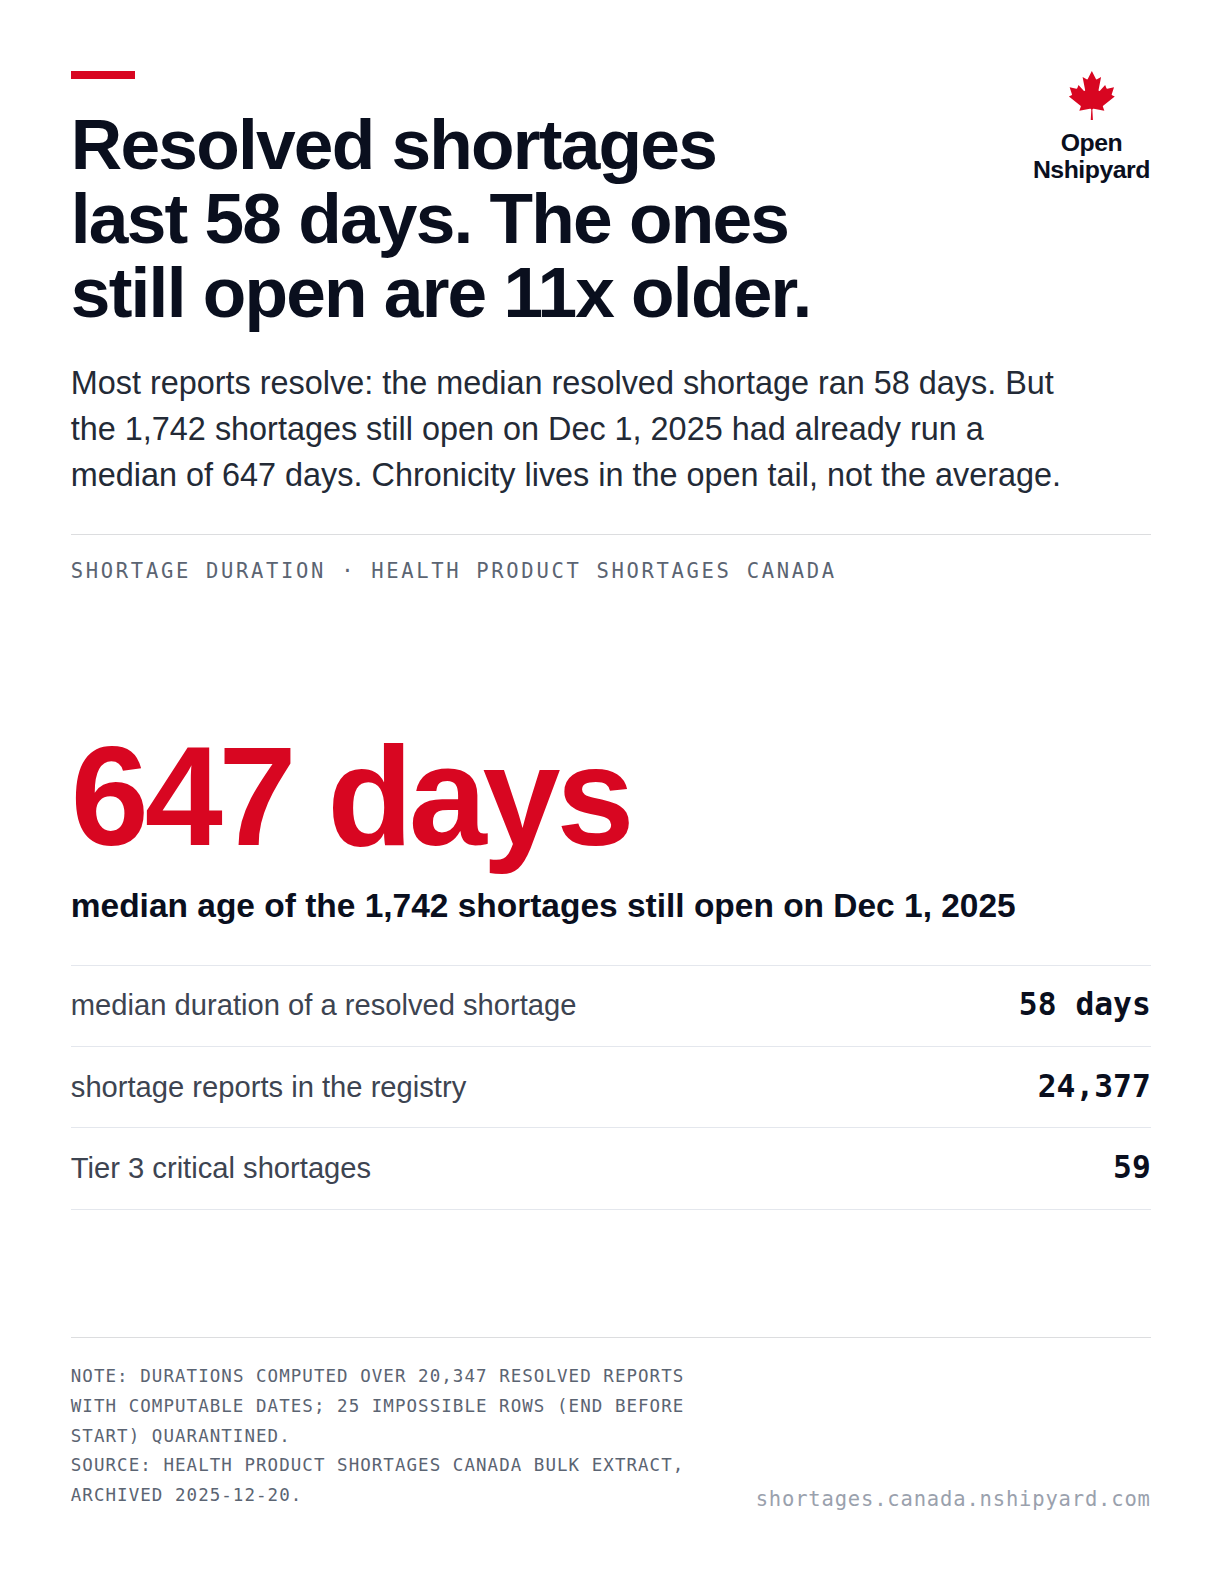
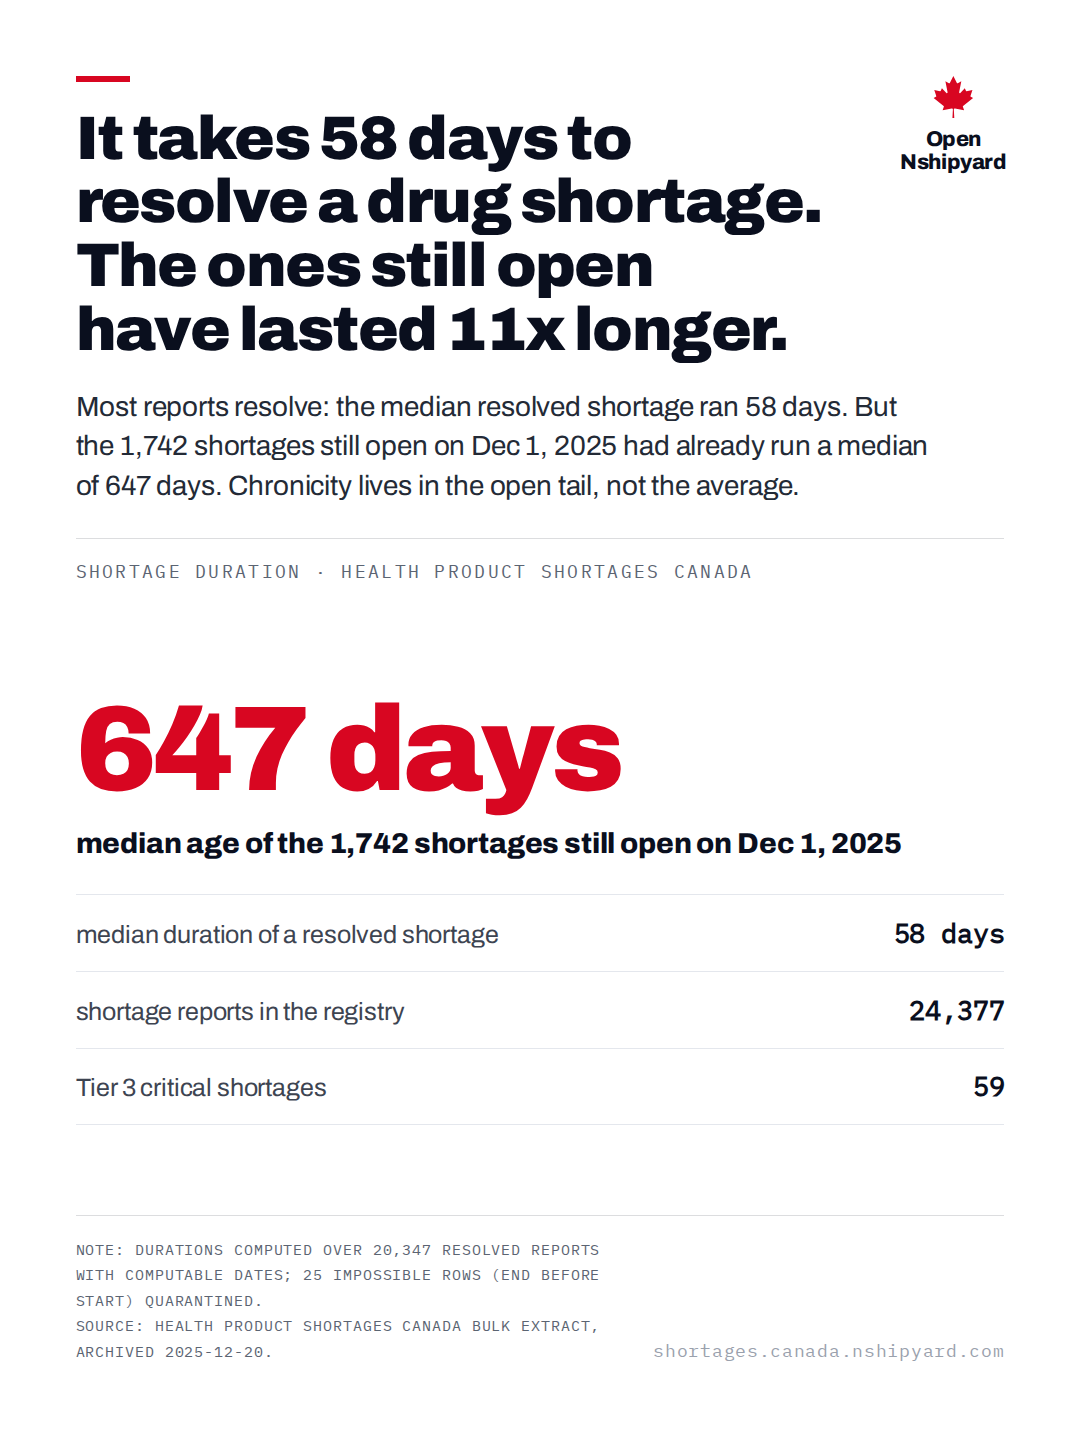
shortages-chronic card: plain-language headline (it takes 58 days to resolve a drug shortage)

diff --git a/src/charts/chart-data.ts b/src/charts/chart-data.ts
@@ -1181,7 +1181,7 @@ export const CHARTS: ChartDef[] = [
   {
       slug: "shortages-chronic",
       kicker: "Shortage duration · Health Product Shortages Canada",
-      headline: "Resolved shortages last 58 days. The ones still open are 11x older.",
+      headline: "It takes 58 days to resolve a drug shortage. The ones still open have lasted 11x longer.",
       deck: "Most reports resolve: the median resolved shortage ran 58 days. But the 1,742 shortages still open on Dec 1, 2025 had already run a median of 647 days. Chronicity lives in the open tail, not the average.",
       note: "Durations computed over 20,347 resolved reports with computable dates; 25 impossible rows (end before start) quarantined.",
       source: "Health Product Shortages Canada bulk extract, archived 2025-12-20.",
